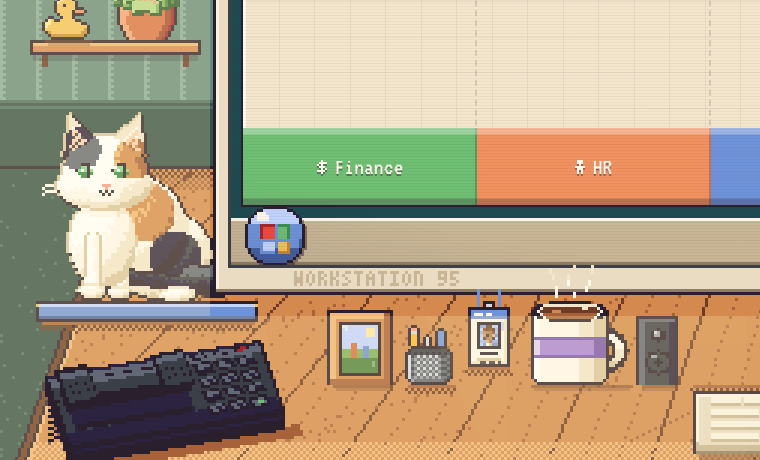
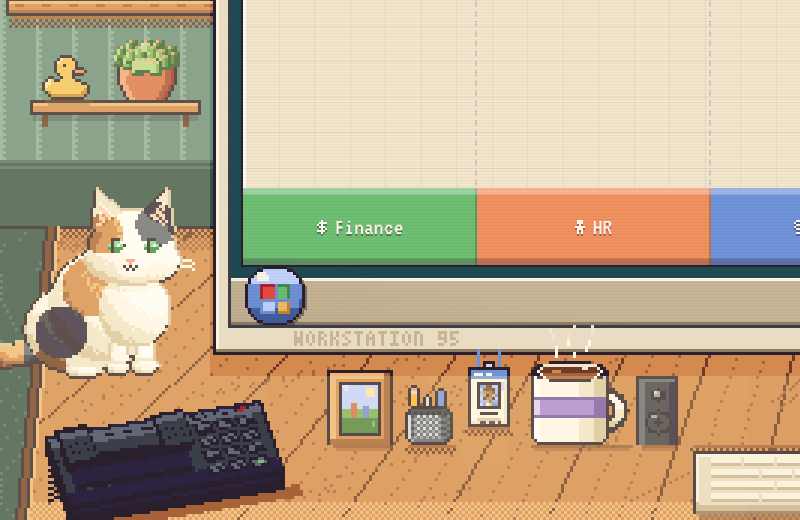
Gato: pernas saem de baixo do peito, cauda separada da pata, 6 pelagens novas, cor dos olhos e sem base na mesa
- Peito desenhado por cima do alto das pernas da frente (com a linha do pelo caindo), pé de trás com forma de pé
- Cauda sai por trás da anca com a ponta virada para cima (não se confunde mais com a perna)
- Pelagens novas: cinza, creme, tigrado marrom, escaminha, cinza e branco, malhado (14 no total)
- Cor dos olhos na Personalizar: da pelagem, verde, âmbar, azul, cobre, avelã, amarelo ou um de cada cor
- Na mesa: sem almofada nem sombra embaixo; no canto esquerdo olha para a tela; tampo vai até a borda esquerda

Claude-Session: https://claude.ai/code/session_01QXJqAZbFuJZRmZErLSypGg

diff --git a/src/js/shared/56-gato.js b/src/js/shared/56-gato.js
@@ -16,7 +16,15 @@ const CAT_COATS_NEW = {
   tricolor:          { base: ['+', 'W', 'w', 'p'], a: ['1', '2', '3', '4'], b: ['j', 'J', '0', 'k'], eye: ['d', 'D'], nose: 'r', pat: 'calico' },
   frajola:           { base: ['j', 'J', '0', 'k'], white: ['+', 'W', 'w', 'p'], eye: ['d', 'D'], nose: 'r', pat: 'tux', dark: true },
   siames:            { base: ['c', 'C', 'e', 'E'], a: ['5', '3', '4', 'k'], eye: ['l', 'L'], nose: '5', pat: 'points' },
+  cinza:             { base: ['m', 'M', 'j', 'J'], eye: ['d', 'D'], nose: 'r', pat: 'none' },
+  creme:             { base: ['W', 'w', 'p', 'P'], a: ['p', 'P', 'P', '4'], eye: ['Y', 'z'], nose: 'r', pat: 'tabby' },
+  'tigrado-marrom':  { base: ['p', 'P', '3', '4'], a: ['4', '4', 'k', 'k'], white: ['+', 'W', 'w', 'p'], eye: ['y', 'G'], nose: '5', pat: 'tabby', bib: true },
+  escaminha:         { base: ['j', 'J', '0', 'k'], a: ['2', '3', '4', '4'], eye: ['Y', 'z'], nose: 'K', pat: 'tortie', dark: true },
+  bicolor:           { base: ['+', 'W', 'w', 'p'], a: ['m', 'M', 'j', 'J'], eye: ['Y', 'z'], nose: 'r', pat: 'bicolor' },
+  vaquinha:          { base: ['+', 'W', 'w', 'p'], b: ['j', 'J', '0', 'k'], eye: ['d', 'D'], nose: 'r', pat: 'cow' },
 };
+// Cor dos olhos (Personalizar): "auto" usa a cor típica da pelagem; heterocromia = um azul e um âmbar
+const CAT_EYES = { auto: null, verde: ['d', 'D'], ambar: ['Y', 'z'], azul: ['l', 'L'], cobre: ['O', '8'], avela: ['Q', 'h'], amarelo: ['y', 'Y'], hetero: [['l', 'L'], ['Y', 'z']] };
 const CAT_K = 1.3;
 
 // Máquina de estados (duração mínima, máxima, peso). O clique dá carinho; movimento reduzido: só pisca.
@@ -56,8 +64,9 @@ function catPose(c, t) {
 // ---------- Desenho ----------
 // Devolve a altura usada. x0, by: canto esquerdo e base (onde as patas tocam)
 function catDraw(x, x0, by, coat, c, t, k = CAT_K) {
-  const C = CAT_COATS_NEW[coat] || CAT_COATS_NEW.laranja, P = WD_PAL, p = catPose(c, t), oy = 2;
-  const W = Math.ceil(39 * k), H = Math.ceil(35 * k), N = W * H;
+  const [coatId, eyeId] = String(coat).split('|'), C = CAT_COATS_NEW[coatId] || CAT_COATS_NEW.laranja, P = WD_PAL, p = catPose(c, t), oy = 2;
+  const EY = CAT_EYES[eyeId] || null, eyeCols = side => !EY ? C.eye : Array.isArray(EY[0]) ? EY[side] : EY;
+  const W = Math.ceil(42 * k), H = Math.ceil(35 * k), N = W * H;
   const id = new Int8Array(N).fill(-1), L = new Float32Array(N);
   const S = v => v * k, put = (i, j, part, l) => { if (i < 0 || j < 0 || i >= W || j >= H) return; const n = j * W + i; id[n] = part; L[n] = l; };
   const lerp = (a, b, f) => a + (b - a) * f;
@@ -78,19 +87,19 @@ function catDraw(x, x0, by, coat, c, t, k = CAT_K) {
   const lo = p.loaf, bw = p.bow;
   const hx = 12 + p.hx - lo * 1.5 - bw * 3, hy = 10.5 + p.hy + lo * 7.5 + bw * 7;
   // cauda: do quadril para a frente (enrolada) ou para cima (ponto de interrogação); a ponta balança
-  const wrap = [[27, 27.5], [31, 28.6], [31.8, 31], [26, 31.7], [19, 31.5], [13.5, 30.8]], up = [[27, 27.5], [31, 24.5], [33, 19.5], [33.2, 14.5], [31.6, 11.2], [29.6, 10.8]];
+  const wrap = [[27, 27.5], [31, 29], [34.5, 30.4], [37, 30], [38.3, 28.2], [38, 25.8]], up = [[27, 27.5], [31, 24.5], [33, 19.5], [33.2, 14.5], [31.6, 11.2], [29.6, 10.8]];
   const tp = Math.min(1, Math.max(0, p.tail)), tpts = wrap.map((w, i) => [lerp(w[0], up[i][0], tp) + p.sway * i * .5 * (tp > .4 ? 1 : .4), lerp(w[1], up[i][1], tp) + (lo ? lo * (i > 2 ? -.5 : 0) : 0)]);
-  const tailFront = tp < .45;
+  const tailFront = false;   // a cauda sai por trás da anca
   const drawTail = () => { for (let s = 0; s < tpts.length - 1; s++) for (let u = 0; u < 1; u += .08) { const a = tpts[s], b = tpts[s + 1], q = s + u;
     const px = lerp(a[0], b[0], u), py = lerp(a[1], b[1], u), r = lerp(1.9, 1.25, q / (tpts.length - 1)); ell(0, px, py, r, r); } };
   if (!tailFront) drawTail();
   ell(1, 21.5 + lo * 1.5 - bw * .5, 24.2 + lo * 1.3 - bw * 2.2, 8.8 + lo * 1, 7.2 - lo * .6);                    // anca
   ell(2, 17 - lo * 1 + bw * 1, 20.6 + lo * 3.4 + bw * 2.2 - p.breath * .25, 9.2 + lo * 2, 9 - lo * 2.6 - bw * 2.5 + p.breath * .25);   // corpo (lombo)
   if (tailFront) drawTail();
-  ell(6, 24.6 + lo, 30.8, 3.1, 1.3);                                                                            // pata de trás
+  ell(6, 20.6 + lo, 31, 3, 1.2);                                                                               // pé de trás, saindo da anca
   if (lo < .6) cap(3, lerp(14.6, 13.5, bw), lerp(23, 28.6, bw), lerp(14.8, 4.2, bw), lerp(29.6, 30.4, bw), 1.55, .25);   // perna de trás (mais escura)
-  ell(4, 12.2 - bw * 1 + lo * .5, 22.2 + bw * 4.6 + lo * 3.5, 5.6, 7.4 - lo * 2.6 - bw * 3.2);                       // peito
-  if (lo < .6) { if (p.paw) cap(10, 11, 21, p.paw === 1 ? hx - 2.2 : hx - 4, p.paw === 1 ? hy + 4.8 : hy + 2.5, 1.65); else cap(5, lerp(10.6, 12, bw), lerp(22, 27.8, bw), lerp(10.4, 1.6, bw), lerp(29.5, 30.1, bw), 1.65); }
+  if (lo < .6 && !p.paw) cap(5, lerp(10.6, 12, bw), lerp(22, 27.8, bw), lerp(10.4, 1.6, bw), lerp(29.5, 30.1, bw), 1.65);   // perna da frente (sai de baixo do peito)
+  ell(4, 12.2 - bw * 1 + lo * .5, 20.9 + bw * 5 + lo * 4, 5.9, 6.3 - lo * 1.8 - bw * 2.4);                                  // peito por cima do alto das pernas
   if (!p.paw && lo < .6) ell(6, lerp(10.4, 1.4, bw), lerp(30.3, 30.6, bw), 2.2, 1.3);
   if (lo >= .6) { ell(6, 8.6, 31, 2.4, 1.2); ell(6, 12.6, 31.1, 2.3, 1.1); }                                     // patinhas recolhidas
   if (!p.paw && lo < .6 && bw < .5) ell(6, 14.8, 30.5, 2, 1.1);
@@ -120,6 +129,13 @@ function catDraw(x, x0, by, coat, c, t, k = CAT_K) {
       if (part === 3 || part === 5) return Math.sin(v * 1.5) > .7 ? R.a : R.base;
       if (part === 7) { const fore = v < hy - 1.6 && v > hy - 5.2 && [-1.8, 0, 1.8].some(o => Math.abs(u - hx - o) < .5); const cheek = v > hy + 1.2 && v < hy + 1.9 && Math.abs(u - hx) > 4.6; return fore || cheek ? R.a : R.base; }
       return R.base; }
+    if (R.pat === 'tortie') { if (part === 7 || part === 9) return u < hx - .3 ? R.a : R.base;   // rosto dividido
+      if (part === 6) return R.base; const n = Math.sin(u * .62 + v * .33 + 1) * Math.sin(u * .31 - v * .58 + .4) + Math.sin(u * 1.7 + v * .95) * .22 + Math.sin(u * 3.1 - v * 2.2) * .08; return n > .12 ? R.a : R.base; }   // manchas grandes e irregulares, borda quebrada
+    if (R.pat === 'bicolor') { const top = part === 8 || part === 11 || part === 0 || (part === 7 && v < hy + .4 && !(Math.abs(u - hx + .2) < 1.1 && v > hy - 2.5)) || (part === 2 && v < 23.5) || (part === 1 && v < 24.5);
+      return top ? R.a : R.base; }
+    if (R.pat === 'cow') { const blob = (cx, cy, r) => (u - cx) ** 2 + (v - cy) ** 2 < r * r;
+      if ((part === 7 || part === 8 || part === 11) && blob(hx + 3.6, hy - 3.4, 3.6)) return R.b;
+      if ((part === 2 || part === 1) && (blob(22.5, 18.5, 4.4) || blob(26, 27, 2.8))) return R.b; if (part === 0 && u > 35) return R.b; return R.base; }
     if (R.pat === 'calico') {
       const blob = (cx, cy, r) => (u - cx) ** 2 + (v - cy) ** 2 < r * r;
       if (part === 7 || part === 8 || part === 11) { if (blob(hx - 4.5, hy - 4, 3.6)) return R.b; if (blob(hx + 4.6, hy - 2.4, 3.4)) return R.a; return R.base; }
@@ -148,25 +164,26 @@ function catDraw(x, x0, by, coat, c, t, k = CAT_K) {
       if (part === 6 && k >= 1.6 && at(i, j + 1) < 0 && [1, 2].includes(((i - Math.round(S(2))) % 3 + 3) % 3) && at(i, j - 1) === 6) tone = Math.max(tone, 2);
       if (part === 6 && at(i, j - 1) !== 6 && at(i, j - 1) >= 0 && k >= 1.6) tone = Math.max(tone, 2);
       if (part === 0 && [1, 2, 4].includes(at(i, j - 1))) tone = 3;
+      if (part === 4 && [5, 3].includes(at(i, j + 1))) tone = Math.max(tone, 2);
     }
     out[n] = P[ramp(i, j, part)[tone]];
   }
   // ---------- rosto ----------
   const set = (i, j, col) => { i = Math.round(i); j = Math.round(j); if (i >= 0 && j >= 0 && i < W && j < H && id[j * W + i] >= 0) out[j * W + i] = col; };
   const lidCol = P[ramp(Math.round(S(hx)), Math.round(S(hy + oy)), 7)[2]];
-  const eye = (cxu) => { const ew = Math.max(2, Math.round(2.3 * k)), eh = Math.max(2, Math.round(1.9 * k)), x0 = Math.round(S(cxu - (ew / k) / 2)), y0 = Math.round(S(hy + oy - .2 - (eh / k) / 2)) + 0;
+  const eye = (cxu, side) => { const EC = eyeCols(side); const ew = Math.max(2, Math.round(2.3 * k)), eh = Math.max(2, Math.round(1.9 * k)), x0 = Math.round(S(cxu - (ew / k) / 2)), y0 = Math.round(S(hy + oy - .2 - (eh / k) / 2)) + 0;
     const look = Math.round(p.look * Math.max(1, k * .5));
     if (p.eyes === 'closed') { for (let i = 0; i < ew; i++) set(x0 + i, y0 + eh - 1 - (i === 0 || i === ew - 1 ? 1 : 0), P.k); return; }
     if (p.eyes === 'happy') { for (let i = 0; i < ew; i++) set(x0 + i, y0 + (i === 0 || i === ew - 1 ? 1 : 0), P.k); return; }
     for (let j = 0; j < eh; j++) for (let i = 0; i < ew; i++) { const corner = ew > 3 && (j === 0 || j === eh - 1) && (i === 0 || i === ew - 1); if (corner) continue;
-      let col = P[j < eh / 2 ? C.eye[0] : C.eye[1]]; const pc = Math.floor(ew / 2) + look - (ew > 3 ? 0 : 0);
+      let col = P[j < eh / 2 ? EC[0] : EC[1]]; const pc = Math.floor(ew / 2) + look - (ew > 3 ? 0 : 0);
       if (i === pc || (p.pupil > 1 && i === pc - 1) || (ew <= 2 && i === ew - 1)) col = P.k;
       if (p.eyes === 'half' && j < Math.ceil(eh / 2)) col = lidCol;
       set(x0 + i, y0 + j, col); }
     if (p.eyes !== 'half') set(x0 + (ew > 3 ? 1 : 0), y0 + (ew > 3 ? 1 : 0) - (ew > 3 ? 0 : 0), P['+']);
     if (k >= 1.6) { for (let i = (ew > 3 ? 1 : 0); i < ew - (ew > 3 ? 1 : 0); i++) set(x0 + i, y0 - 1, P.k); set(x0 - 1, y0 + 1, P.k); }                    // pálpebra de cima
   };
-  eye(hx - 3.3); eye(hx + 2.7);
+  eye(hx - 3.3, 0); eye(hx + 2.7, 1);
   const nx = S(hx - .2), ny = S(hy + oy + 2.2);
   if (k >= 1.6) { set(nx - 1, ny, P[C.nose]); set(nx, ny, P[C.nose]); set(nx + 1, ny, P[C.nose]); set(nx, ny + 1, P[C.nose]); set(nx - 1, ny - 0, P[C.nose]); }
   else set(nx, ny, P[C.nose]);
@@ -198,7 +215,7 @@ function catDraw(x, x0, by, coat, c, t, k = CAT_K) {
 }
 function catDrawBound(...a) { return catDraw(...a); }
 // Tamanho (px) do desenho para um k
-const catSize = k => [Math.ceil(39 * k), Math.ceil(35 * k)];
+const catSize = k => [Math.ceil(42 * k), Math.ceil(35 * k)];
 // Quadro parado (sem animação) em canvas, com cache; usado no mercado, catálogo, cenas e miniaturas
 const CAT_STILL = new Map();
 function catStill(coat, k) {

diff --git a/src/js/30-personalizar.js b/src/js/30-personalizar.js
@@ -185,18 +185,20 @@ function showCustomize(back) {
     <div class="setting"><span>${u.curColorLabel}</span><div class="swatches cur-colors"></div></div>
     <div class="setting"><span>${u.theme}<small></small></span><div class="seg" id="hwTheme">${[['system', u.themeSystem], ['light', u.themeLight], ['dark', u.themeDark]].map(([v, l]) => `<button class="pxbtn${(CFG.theme || 'system') === v ? ' on' : ''}" data-t="${v}">${l}</button>`).join('')}</div></div>
     <div class="setting"><span>${u.catLabel}</span><div class="walls cats">${CAT_COATS.map(c2 => `<button class="pxbtn wall cat${cur.cat === c2 ? ' on' : ''}" data-c="${c2}"><span class="cimg"></span><small>${u.coats[c2]}</small></button>`).join('')}</div></div>
+    <div class="setting"><span>${u.catEyeLabel}<small></small></span><div class="swatches" data-hw="catEye" data-names='${JSON.stringify(u.catEyes)}'>${Object.entries(CAT_EYES).map(([k2, e2]) => { const cc = !e2 ? null : Array.isArray(e2[0]) ? [WD_PAL[e2[0][0]], WD_PAL[e2[1][0]]] : [WD_PAL[e2[0]], WD_PAL[e2[1]]];
+      return `<button class="sw-btn${(cur.catEye || 'auto') === k2 ? ' on' : ''}" data-v="${k2}" title="${u.catEyes[k2]}" aria-label="${u.catEyes[k2]}"><i style="background:${cc ? `linear-gradient(90deg, ${cc[0]} 0 50%, ${cc[1]} 50% 100%)` : 'repeating-conic-gradient(#dcc6a0 0 25%, #fff8ec 0 50%) 0 0 / 8px 8px'}"></i></button>`; }).join('')}</div></div>
     <div class="setting"><span>${u.wallLabel}</span><div class="walls">${Object.keys(WALLS).map(w => `<button class="pxbtn wall${cur.wall === w ? ' on' : ''}" data-w="${w}"><canvas width="64" height="36"></canvas><small>${u.walls[w]}</small></button>`).join('')}</div></div>
     <div class="setting"><span>${u.arr.title}</span><div class="seg"><button class="pxbtn" id="hwArr">${u.arr.title}…</button><button class="pxbtn" id="hwArrReset">${u.arr.reset}</button></div></div>
     <div class="actions"><button class="pxbtn main" id="hwOk">${u.resume}</button></div>`);
   card.classList.add('hw-card');
   // Layout de aplicativo: abas por categoria à esquerda e prévia grande à direita (computador, janela do WorkOS,
   // crachá e gato), tudo atualizado em tempo real. As linhas existentes são só redistribuídas (nenhuma opção some).
-  { const rows = [...card.querySelectorAll(':scope .setting')], CAT = ['pc', 'pc', 'pc', 'pc', 'os', 'os', 'badge', 'badge', 'pc', 'ptr', 'ptr', 'os', 'desk', 'os', 'desk'];
+  { const rows = [...card.querySelectorAll(':scope .setting')], CAT = ['pc', 'pc', 'pc', 'pc', 'os', 'os', 'badge', 'badge', 'pc', 'ptr', 'ptr', 'os', 'desk', 'desk', 'os', 'desk'];
     const lay = document.createElement('div'); lay.className = 'hw-layout';
     lay.innerHTML = `<div class="hw-main"><div class="hw-tabs">${['pc', 'os', 'badge', 'desk', 'ptr'].map(k => `<button class="pxbtn hw-tab" data-t="${k}">${u.hwTabs[k]}</button>`).join('')}</div><div class="hw-opts"></div></div>
       <aside class="hw-side"><div class="hw-pv hw-pv-pc"></div><div class="hw-pv hw-pv-os"><div class="pv-win"><i class="pv-bar"><b></b><b></b><b class="x"></b></i><div class="pv-body"></div></div><i class="pv-task"><i class="pv-orb"></i></i></div>
         <div class="hw-pv hw-pv-badge"><div class="pv-badge"><i class="pv-lan"></i><div class="pv-card"><i class="pv-head"></i><span class="pv-face"></span><b></b></div></div></div>
-        <div class="hw-pv hw-pv-desk"><canvas class="pv-cat" width="52" height="48"></canvas></div><p class="hint hw-note"></p></aside>`;
+        <div class="hw-pv hw-pv-desk"><canvas class="pv-cat" width="56" height="48"></canvas></div><p class="hint hw-note"></p></aside>`;
     const opts = lay.querySelector('.hw-opts'); rows.forEach((r, i) => { r.dataset.cat = CAT[i] || 'os'; opts.append(r); });
     card.querySelector('.hw-prev').remove(); const pcBox = lay.querySelector('.hw-pv-pc'); pcBox.innerHTML = '<canvas class="hw-scene" width="120" height="44"></canvas>';
     card.querySelector('.hint').remove(); card.querySelector('h2').after(lay);
@@ -207,7 +209,7 @@ function showCustomize(back) {
     lay.querySelectorAll('.hw-tab').forEach(b => b.onclick = () => { sfx('click'); tab(b.dataset.t); });
     let t0 = 'pc'; try { t0 = sessionStorage.getItem('hwTab') || 'pc'; } catch (e) {} tab(t0);
     // gato da prévia animado com a mesma lógica da mesa
-    const pc = lay.querySelector('.pv-cat'), ai = CatAI.make(); const anim = () => { if (!pc.isConnected) return; const t = performance.now() / 1000; CatAI.step(ai, t); const x = pc.getContext('2d'); x.clearRect(0, 0, 52, 48); catDraw(x, 0, 47, hw().cat, ai, t, 1.3); requestAnimationFrame(anim); };
+    const pc = lay.querySelector('.pv-cat'), ai = CatAI.make(); const anim = () => { if (!pc.isConnected) return; const t = performance.now() / 1000; CatAI.step(ai, t); const x = pc.getContext('2d'); x.clearRect(0, 0, 56, 48); catDraw(x, 0, 47, hw().cat + '|' + (hw().catEye || 'auto'), ai, t, 1.3); requestAnimationFrame(anim); };
     pc.onclick = () => CatAI.poke(ai, performance.now() / 1000); requestAnimationFrame(anim); }
   const prev = card.querySelector('.hw-scene');
   const draw = () => {

diff --git a/src/js/shared/58-mesa.js b/src/js/shared/58-mesa.js
@@ -7,7 +7,7 @@
 
 // id → [porte, largura que ocupa na mesa, altura visual]
 const DESK_OBJ = {
-  gato: ['G', 82, 70], lamp: ['G', 78, 92], aquario: ['G', 62, 42],
+  gato: ['G', 86, 70], lamp: ['G', 78, 92], aquario: ['G', 62, 42],
   mug: ['M', 34, 34], globo: ['M', 30, 38], trofeu: ['M', 30, 38], foto: ['M', 24, 28], planta: ['M', 28, 32], radio: ['M', 34, 24],
   badge: ['P', 16, 26], pens: ['P', 17, 21], papersL: ['P', 33, 12], papersR: ['P', 33, 12], pato: ['P', 18, 16], livros: ['P', 31, 22],
   caixaL: ['P', 13, 22], caixaR: ['P', 13, 22], cacto: ['P', 18, 26],
@@ -21,7 +21,7 @@ const DESK_AUTO = [['gato', 'esqFundo'], ['lamp', 'dirFundo'], ['aquario', 'dirF
   ['radio', 'prateleira'], ['cacto', 'prateleira'], ['livros', 'prateleira']];
 const DESK_ZONES = ['esqFundo', 'centroEsq', 'centroDir', 'dirFrente', 'dirFundo', 'prateleira'];
 // quanto o objeto pode entrar atrás da moldura do monitor (px) e para onde vai se a zona escolhida estiver cheia
-const DESK_TUCK = { gato: 20, lamp: 16, aquario: 8 };
+const DESK_TUCK = { lamp: 16, aquario: 8 };
 const DESK_FALLBACK = { caixaL: ['centroEsq', 'centroDir'], caixaR: ['centroDir', 'centroEsq'], papersL: [], papersR: ['centroEsq'], planta: ['centroEsq', 'centroDir', 'prateleira'] };
 // qual compra libera cada objeto (caixas de som são um par)
 const deskOwned = (id, decor) => DESK_BASE.includes(id) || (decor || []).includes(id === 'caixaL' || id === 'caixaR' ? 'caixas' : id);
@@ -53,10 +53,12 @@ Object.assign(Office, {
     const place = (id, zid) => {
       const z = Z[zid], o = DESK_OBJ[id]; if (!this.deskFits(id, z)) return false;
       if (z.shelf) { const u = used[zid] || 0, rows = shelfRows(); if (u + o[1] + 3 > z.cap / 2 * rows) return false; used[zid] = u + o[1] + 3; shelf.push(id); out[id] = { zone: zid, shelf: true, w: o[1], h: o[2] }; return true; }
-      const u = used[zid] || 0, tuck = z.back && !u ? (DESK_TUCK[id] || 0) : 0, w = o[1], free = z.x1 - z.x0 - u + tuck; if (w > free) return false;
+      const spill = id === 'gato' && zid === 'esqFundo' ? 24 : 0;   // a cauda do gato pode sair pela borda esquerda da cena
+      const u = used[zid] || 0, tuck = z.back && !u ? (DESK_TUCK[id] || 0) : 0, w = o[1], free = z.x1 - z.x0 - u + tuck + spill; if (w > free) return false;
       // nas laterais do monitor o primeiro objeto pode entrar um pouco atrás da moldura (o gato encostado no monitor)
       const x = z.dir < 0 ? z.x1 - u - w + tuck : z.x0 + u - tuck;
       out[id] = { x, y: z.y, w, h: o[2], zone: zid, back: !!z.back, corner: !!z.corner };
+      if (id === 'gato' && zid === 'esqFundo') out[id].flip = true;   // no canto esquerdo olha para a tela; a cauda fica para fora
       used[zid] = u + w - tuck + (o[0] === 'P' ? 3 : 5); return true;
     };
     // objetos arrumados à mão: { fx, fy, flip } (centro em fração da largura e profundidade entre o fundo e a borda da frente)
@@ -194,9 +196,7 @@ Object.assign(Office, {
   deskObj0(x, id, q, st, t, dy = 0) {
     const P = WD_PAL, y = q.y + dy;
     if (id === 'gato') { const k = 2, cw = catSize(k)[0] - 8, cxx = q.x + ((q.w - cw) >> 1);
-      this.shadow(x, cxx - 1, y + 1, cw + 2, 2); const F = (c, a, b, w, h) => { x.fillStyle = c; x.fillRect(a, b, w, h); };
-      F(P.k, cxx - 2, y - 6, cw + 4, 7); F(P.L, cxx - 1, y - 5, cw + 2, 5); F(P.l, cxx - 1, y - 5, cw + 2, 1); F(P[7], cxx - 1, y - 1, cw + 2, 1); F(P.Y, cxx - 2, y - 5, 1, 1); F(P.Y, cxx + cw + 1, y - 5, 1, 1);   // almofada
-      CatAI.step(OFFICE_CAT, t); catDraw(x, cxx - 4, y - 4, st.cat || 'laranja', OFFICE_CAT, t, k); return; }
+      CatAI.step(OFFICE_CAT, t); catDraw(x, cxx - 4, y + 1, st.cat || 'laranja', OFFICE_CAT, t, k); return; }
     if (id === 'lamp') { const flip = (q.zone === 'esqFundo') !== !!q.flip, on = (st.lampLv !== undefined ? st.lampLv : 1) > .5, bx = flip ? q.x + 26 : q.x + q.w - 26; const h = this.lampBig(x, bx, y, t, on, flip); this._lampCone = { cx: h.x, y0: h.y, y1: y + 1 }; return; }
     if (id === 'aquario') { this._aqua = [q.x, y - q.h - 2]; ART.aquarium(x, q.x, y, t, Object.assign({}, st, { W: q.w - 2, H: q.h - 4 })); return [q.x + (q.w >> 1), y - q.h / 2, q.w * .7, q.h * .6, '120,200,220', .45]; }
     if (id === 'mug') { this.mugBig(x, q.x + 1, y, t, st.rank >= 1, st.hour < 16 || st.clutter < 2); return; }

diff --git a/src/js/27-escritorio.js b/src/js/27-escritorio.js
@@ -11,7 +11,7 @@ function officeState() {
   const stress = S ? S.stress : 0;
   const clutter = day ? Math.min(3, Math.floor(stress / 30) + (S.level >= 8 ? 1 : 0)) : 0;
   const ringing = (day && S.tasks.some(t => t.type === 'call')) || !!OFFICE.call;
-  return { hour, stress, clutter, decor: P.decor, rank: S ? S.rankIdx : 0, blind: OFFICE.blind, day: S ? S.day : 0, ringing, press: OFFICE.press, click: OFFICE.click, bigPhone: true, phoneHeld: !!(S && S.tasks && S.tasks.some(k => k.type === 'call' && !k.dead && k.holding)), hw: Object.assign(hw(), { badgeColor: (BADGE_COLORS[hw().badge] || [])[0], lanyardColor: (BADGE_COLORS[hw().lanyard] || [])[0] }), badge: badgeInfo(), lights: lightState(), weather: Office.weather(S ? S.day : 1), cat: hw().cat, sound: soundOn };
+  return { hour, stress, clutter, decor: P.decor, rank: S ? S.rankIdx : 0, blind: OFFICE.blind, day: S ? S.day : 0, ringing, press: OFFICE.press, click: OFFICE.click, bigPhone: true, phoneHeld: !!(S && S.tasks && S.tasks.some(k => k.type === 'call' && !k.dead && k.holding)), hw: Object.assign(hw(), { badgeColor: (BADGE_COLORS[hw().badge] || [])[0], lanyardColor: (BADGE_COLORS[hw().lanyard] || [])[0] }), badge: badgeInfo(), lights: lightState(), weather: Office.weather(S ? S.day : 1), cat: hw().cat + '|' + (hw().catEye || 'auto'), sound: soundOn };
 }
 // Crachá da mesa: cores do avatar ou miniatura 4×5 da foto
 function badgeInfo() {

diff --git a/src/css/80-entrega3.css b/src/css/80-entrega3.css
@@ -436,9 +436,9 @@
   .pv-card { width: 92px; padding-bottom: 8px; display: flex; flex-direction: column; align-items: center; gap: 4px; background: #fff8ec; box-shadow: 0 0 0 2px #2a1f2d, inset 0 -3px 0 #dcc6a0; font: .9em var(--pixel); line-height: 1.1; color: #2a1f2d; }
   .pv-head { align-self: stretch; height: 12px; background: var(--badge, #6f93d9); box-shadow: inset 0 -2px 0 var(--badge-sh, #44609f); }
   .pv-face { box-shadow: 0 0 0 2px #2a1f2d; line-height: 0; }
-  .pv-cat { width: 156px; height: 144px; image-rendering: pixelated; cursor: pointer; }
+  .pv-cat { width: 168px; height: 144px; image-rendering: pixelated; cursor: pointer; }
   .os-win:has(.hw-layout) { width: min(62em, 96vw) !important; }
-  @media (max-width: 700px) { .hw-layout { grid-template-columns: 1fr; } .hw-side { position: static; order: -1; } .pv-cat { width: 104px; height: 96px; } }
+  @media (max-width: 700px) { .hw-layout { grid-template-columns: 1fr; } .hw-side { position: static; order: -1; } .pv-cat { width: 112px; height: 96px; } }
   .hw-layout .setting { grid-template-columns: 7.5em 1fr !important; margin-bottom: .45em !important; }
   .hw-layout .sw-btn { width: 26px; height: 26px; padding: 2px; }
   /* janela de decisão obrigatória (fim de carreira): sem minimizar, maximizar ou fechar */

diff --git a/src/js/shared/30-sprites.js b/src/js/shared/30-sprites.js
@@ -43,7 +43,7 @@ SPR2.cacto = ['....kkk....', '...kgGhk...', '.k.kgWhk.k.', 'kgkkGGhkkhk', 'kGGkG
 SPR2.radio = ['.............k..', '............k...', '...........k....', 'kkkkkkkkkkkkkkkk', 'k11111111111112k', 'k1kkkkkk1kkkk13k', 'k1kpkpkk1kYYk13k', 'k1kkpkpk1kRYk13k', 'k1kkkkkk1kkkk13k', 'k33333333333333k', 'kkkkkkkkkkkkkkkk', '.kk..........kk.'];
 SPR2.aquario = ['...kkkkkkkk...', '..kmmmmmmmmk..', '.kWllllllllLk.', 'kWlllllllllLLk', 'kllllOOOOllLLk', 'klllOOOOkOlLLk', 'kllllOOOOllLLk', 'kllllllllllLLk', 'klvlllllllvLLk', '.kGGgGllGGgLk.', '.kGhGGhhGGh7k.', '..k77777777k..', '...kkkkkkkk...'];
 // Pelagens do gato: o desenho é o mesmo; a cor de cada pixel vem do padrão (listras, manchas, máscara)
-const CAT_COATS = ['tricolor', 'cinza-tigrado', 'laranja-tigrado', 'laranja', 'preto', 'branco', 'frajola', 'siames'];
+const CAT_COATS = ['tricolor', 'cinza-tigrado', 'laranja-tigrado', 'laranja', 'preto', 'branco', 'frajola', 'siames', 'cinza', 'creme', 'tigrado-marrom', 'escaminha', 'bicolor', 'vaquinha'];
 function catCoat(rows, coat, tail) {
   const key = 'cat:' + coat + ':' + rows.join('|');
   if (Pixel.cache.has(key)) return Pixel.cache.get(key);

diff --git a/src/js/shared/50-office.js b/src/js/shared/50-office.js
@@ -304,7 +304,7 @@ const Office = {
       for (let j = L.VH - 6; j < L.VH; j++) Pixel.dither(x, 0, j, L.VW, 1, P[1], j + 1);                      // borda da frente iluminada
       // Laterais: a mesa termina antes das bordas da tela. As quinas abrem um pouco em direção a quem está sentado;
       // fora do tampo aparece o chão (carpete escuro), e a espessura do tampo fica visível como uma faixa mais escura.
-      const eb = Math.max(6, L.VW * .07 | 0), ef = Math.max(2, L.VW * .015 | 0), H0 = L.VH - top;
+      const eb = Math.max(6, L.VW * .03 | 0), ef = Math.max(2, L.VW * .015 | 0), H0 = L.VH - top;
       for (let y = top; y < L.VH; y++) {
         const k = (y - top) / H0, xl = Math.round(eb + (ef - eb) * k), xr = L.VW - xl;
         x.fillStyle = P.B; x.fillRect(0, y, xl - 3, 1); x.fillRect(xr + 3, y, L.VW - xr - 3, 1);
